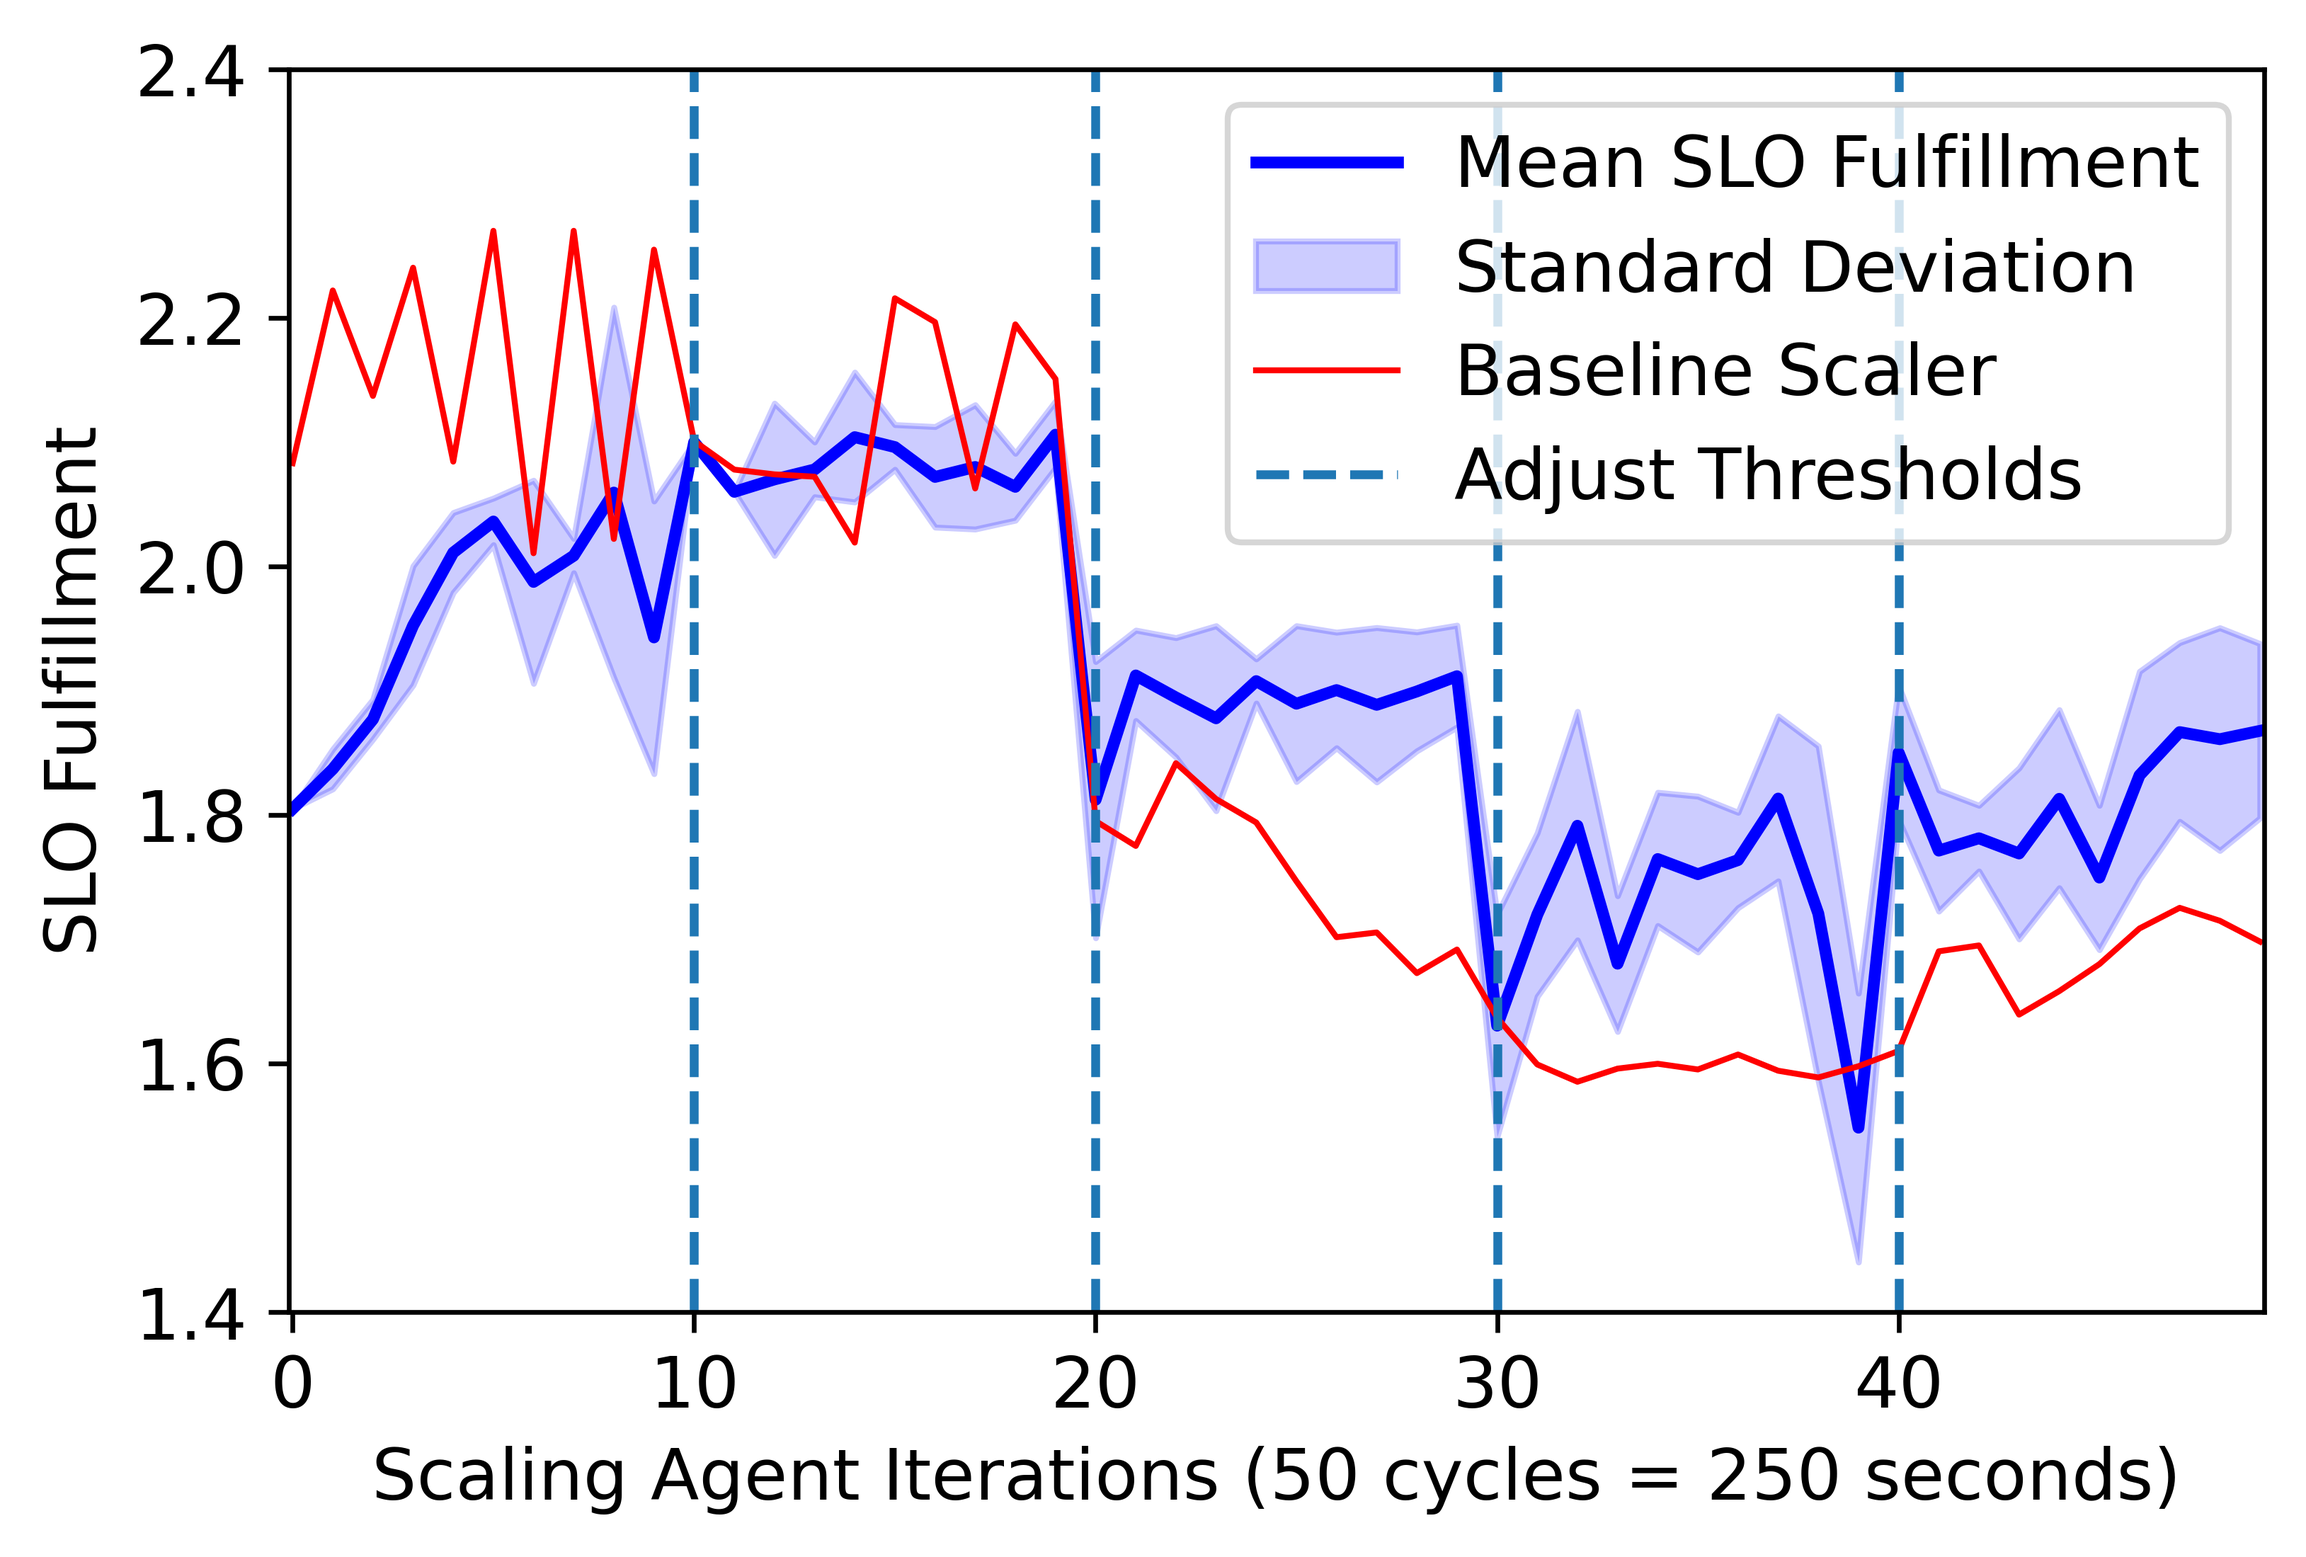
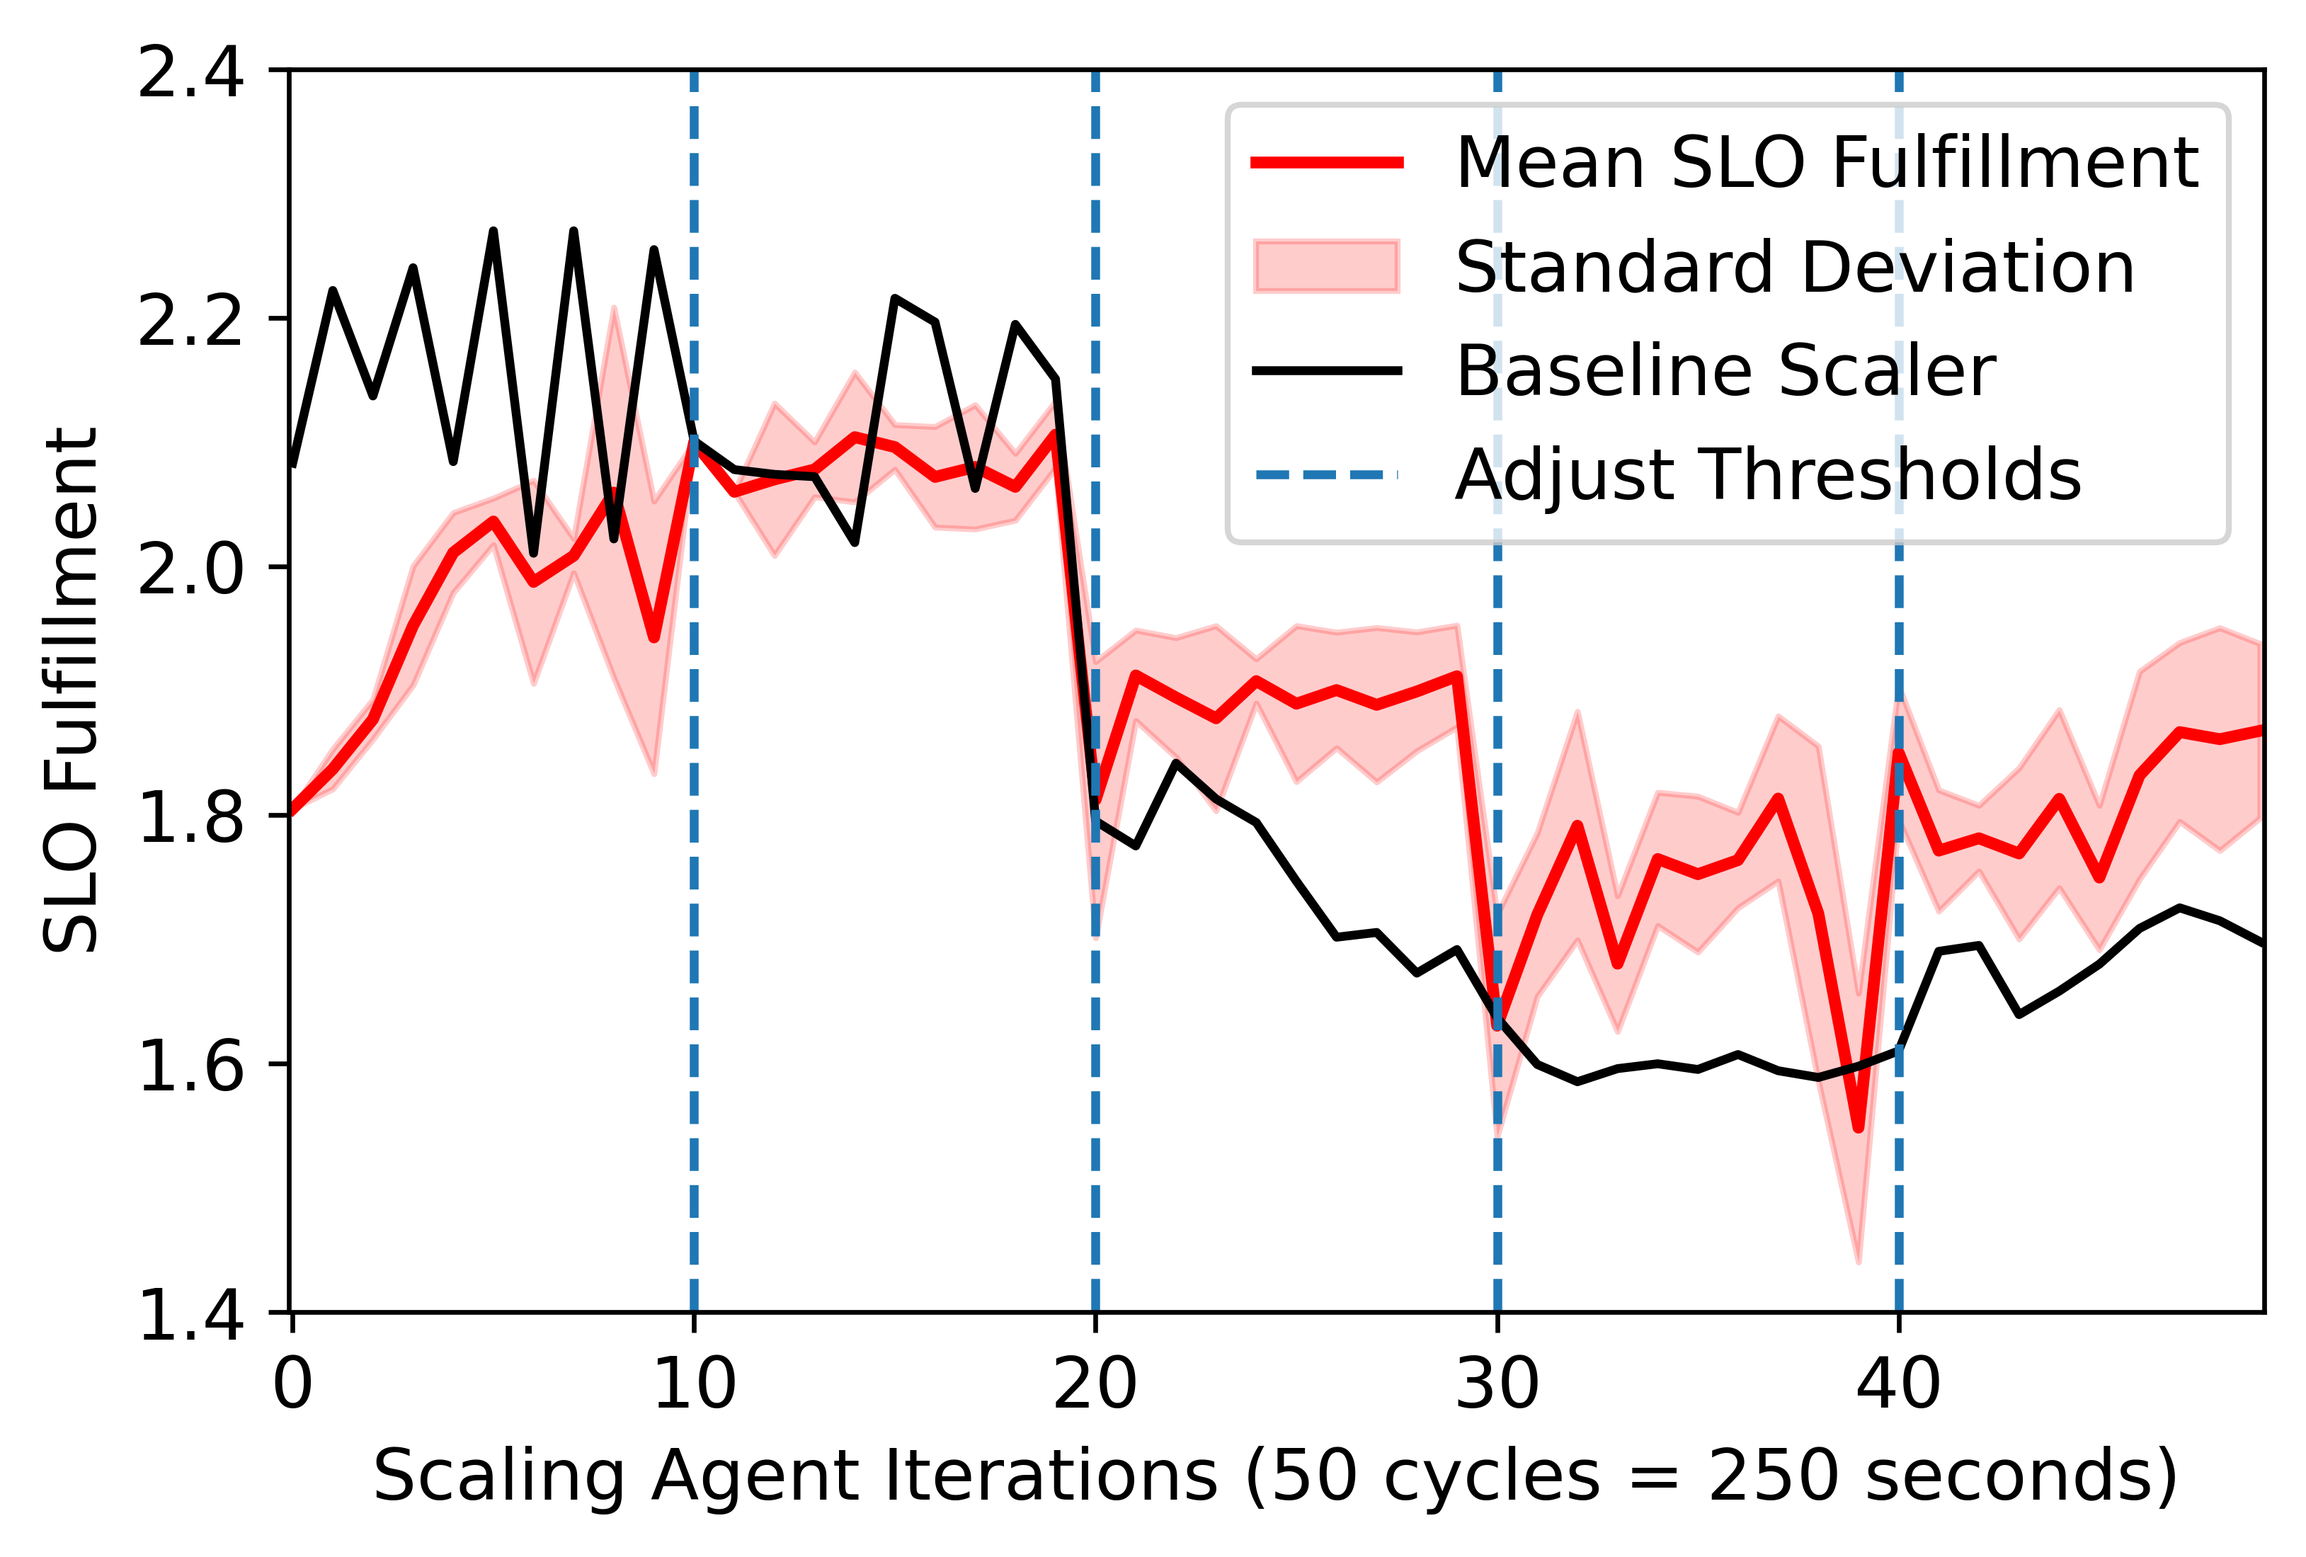
finish E2

Changed region(s): [[0.124, 0.1546, 0.9923, 0.804], [0.5272, 0.1546, 0.6202, 0.2474], [0.5272, 0.0928, 0.6202, 0.1237]]

diff --git a/results/E2/E2.py b/results/E2/E2.py
@@ -1,6 +1,7 @@
 import time
 
 import numpy as np
+import pandas as pd
 from matplotlib import pyplot as plt
 
 from DockerClient import DockerInfo
@@ -8,6 +9,9 @@ from HttpClient import HttpClient
 from agent.DQN import DQN, STATE_DIM
 from agent.Global_Service_Optimizer import Global_Service_Optimizer
 from agent.ScalingAgent_v2 import ScalingAgent, reset_core_states_2
+from slo_config import Full_State, calculate_slo_reward
+
+plt.rcParams.update({'font.size': 12})
 
 container_1 = DockerInfo("multiscaler-video-processing-a-1", "172.18.0.4", "Alice")
 container_2 = DockerInfo("multiscaler-video-processing-b-1", "172.18.0.5", "Bob")
@@ -18,13 +22,13 @@ nn = "./networks"
 changes = 10
 
 max_cores = 8
-starting_pixel, starting_cores = 1600, 2
+starting_pixel, starting_cores = 1400, 2
 
 dqn = DQN(state_dim=STATE_DIM, action_dim=5, nn_folder=nn, suffix="5")
-agent_1 = ScalingAgent(container=container_1, prom_server=p_s, thresholds=(1500, 30),
-                       dqn=dqn, log=f"S1.1", max_cores=max_cores)
-agent_2 = ScalingAgent(container=container_2, prom_server=p_s, thresholds=(1500, 20),
-                       dqn=dqn, log=f"S1.2", max_cores=max_cores)
+agent_1 = ScalingAgent(container=container_1, prom_server=p_s, thresholds=(1300, 30),
+                       dqn=dqn, log=("Alice", None), max_cores=max_cores)
+agent_2 = ScalingAgent(container=container_2, prom_server=p_s, thresholds=(1300, 10),
+                       dqn=dqn, log=("Bob", None), max_cores=max_cores)
 
 glo = Global_Service_Optimizer(agents=[agent_1, agent_2])
 
@@ -38,7 +42,7 @@ def start_greedy_agents():
     reset_container_params(container_1, starting_pixel, starting_cores)
     reset_container_params(container_2, starting_pixel, starting_cores)
     reset_core_states_2([container_1, container_2], [starting_cores, starting_cores])
-    time.sleep(1)
+    time.sleep(3)
 
     agent_1.start()
     agent_2.start()
@@ -48,8 +52,8 @@ def start_greedy_agents():
         print("Still free cores available, waiting...")
         time.sleep(5)
 
-    # agent_1.stop()
-    # agent_2.stop()
+    agent_1.set_idle(True)
+    agent_2.set_idle(True)
 
 
 def improve_global_slof():
@@ -58,33 +62,48 @@ def improve_global_slof():
             estimates = glo.estimate_swapping()
             glo.swap_core(estimates)
 
+        print(f"Finish iteration {i + 1} / {changes}")
         time.sleep(5)
+
+    agent_1.stop()
+    agent_2.stop()
 
 
 def visualize_data():
-    x = np.arange(len(m_meth))
-    lower_bound = np.array(m_meth) - np.array(std_meth)
-    upper_bound = np.array(m_meth) + np.array(std_meth)
+    df = pd.read_csv("./slo_f.csv")
+    del df['timestamp']
+
+    alice = df[df['index'] == "Alice"]
+    bob = df[df['index'] == "Bob"]
+
+    states_alice = [Full_State(*row[2:]) for row in alice.itertuples(index=False, name=None)]
+    states_bob = [Full_State(*row[2:]) for row in bob.itertuples(index=False, name=None)]
+
+    slo_f_alice = [np.sum(calculate_slo_reward(s.for_tensor())) for s in states_alice]
+    slo_f_bob = [np.sum(calculate_slo_reward(s.for_tensor())) for s in states_bob]
+
+    x = np.arange(len(slo_f_alice))
 
     plt.figure(figsize=(6.0, 3.8))
     # plt.plot(x, m_base, label='Baseline', color='red', linewidth=1)
-    plt.plot(x, m_meth, label='Mean SLO Fulfillment', color='blue', linewidth=2)
-    plt.fill_between(x, lower_bound, upper_bound, color='blue', alpha=0.2, label='Standard Deviation')
-    plt.plot(x, m_base, label='Baseline Scaler', color='red', linewidth=1)
-    plt.vlines([10, 20, 30, 40], ymin=1.25, ymax=2.75, label='Adjust Thresholds', linestyles="--")
+    plt.plot(x, slo_f_alice, label='Alice: SLO Fulfillment', color='red', linewidth=2)
+    plt.plot(x, slo_f_bob, label='Bob: SLO Fulfillment', color='blue', linewidth=2)
+    # plt.vlines([10, 20, 30, 40], ymin=1.25, ymax=2.75, label='Adjust Thresholds', linestyles="--")
 
-    plt.xlim(-0.1, 49.1)
-    plt.ylim(1.4, 2.4)
+    plt.xlim(-0.1, 12.1)
+    plt.ylim(1.6, 2.4)
 
-    plt.xlabel('Scaling Agent Iterations (50 cycles = 250 seconds)')
+    plt.vlines([2, 3, 5], ymin=1.25, ymax=2.75, label='Alice +1; Bob -1', color='red', alpha=0.5, linestyles="--")
+    plt.vlines([7], ymin=1.25, ymax=2.75, label='Alice -1; Bob +1', color='blue', alpha=0.5, linestyles="--")
+
+    plt.xlabel('Scaling Agent Iterations (12 cycles = 60 seconds)')
     plt.ylabel('SLO Fulfillment')
-    # plt.title('Mean SLO Fulfillment')
     plt.legend()
-    plt.savefig("./abcd.png", dpi=600, bbox_inches="tight", format="png")
+    plt.savefig("./global_optimizer.png", dpi=600, bbox_inches="tight", format="png")
     plt.show()
 
 
 if __name__ == '__main__':
-    start_greedy_agents()
-    improve_global_slof()
-    # visualize_data()
+    # start_greedy_agents()
+    # improve_global_slof()
+    visualize_data()

diff --git a/results/E1/E1.py b/results/E1/E1.py
@@ -117,9 +117,9 @@ def visualize_data(slof_files, output_file):
 
     plt.figure(figsize=(6.0, 3.8))
     # plt.plot(x, m_base, label='Baseline', color='red', linewidth=1)
-    plt.plot(x, m_meth, label='Mean SLO Fulfillment', color='blue', linewidth=2)
-    plt.fill_between(x, lower_bound, upper_bound, color='blue', alpha=0.2, label='Standard Deviation')
-    plt.plot(x, m_base, label='Baseline Scaler', color='red', linewidth=1)
+    plt.plot(x, m_meth, label='Mean SLO Fulfillment', color='red', linewidth=2)
+    plt.fill_between(x, lower_bound, upper_bound, color='red', alpha=0.2, label='Standard Deviation')
+    plt.plot(x, m_base, label='Baseline Scaler', color='black', linewidth=1.5)
     plt.vlines([10, 20, 30, 40], ymin=1.25, ymax=2.75, label='Adjust Thresholds', linestyles="--")
 
     plt.xlim(-0.1, 49.1)

diff --git a/agent/ScalingAgent_v2.py b/agent/ScalingAgent_v2.py
@@ -45,6 +45,7 @@ class ScalingAgent(Thread):
         self.unchanged_iterations = 0
         self.thresholds = thresholds
         self._running = True
+        self._idle = False
 
     def run(self):
         global core_state
@@ -69,13 +70,17 @@ class ScalingAgent(Thread):
                 action_pw = 5  # Indicate exploration path
             else:
                 action_pw = self.dqn.choose_action(np.array(state_pw.for_tensor()), rand=0.15)
-            self.act_on_env(action_pw, state_pw)
+
+            if not self._idle:
+                self.act_on_env(action_pw, state_pw)
 
             time.sleep(5)
 
     def stop(self):
         self._running = False
 
+    def set_idle(self, idle):
+        self._idle = idle
 
     def has_free_cores(self):
         with access_state:

diff --git a/agent/Global_Service_Optimizer.py b/agent/Global_Service_Optimizer.py
@@ -12,13 +12,11 @@ http_client = HttpClient()
 
 logger = logging.getLogger("multiscale")
 
+
 class Global_Service_Optimizer:
     def __init__(self, agents: [ScalingAgent]):
         self.s_agents = agents
         self.lgbn = agent_utils.train_lgbn_model(pd.read_csv("./LGBN.csv"), show_result=False)
-
-    def evaluate_slof(self):
-        pass
 
     def estimate_swapping(self):
         state_1: Full_State = self.s_agents[0].get_state_PW()
